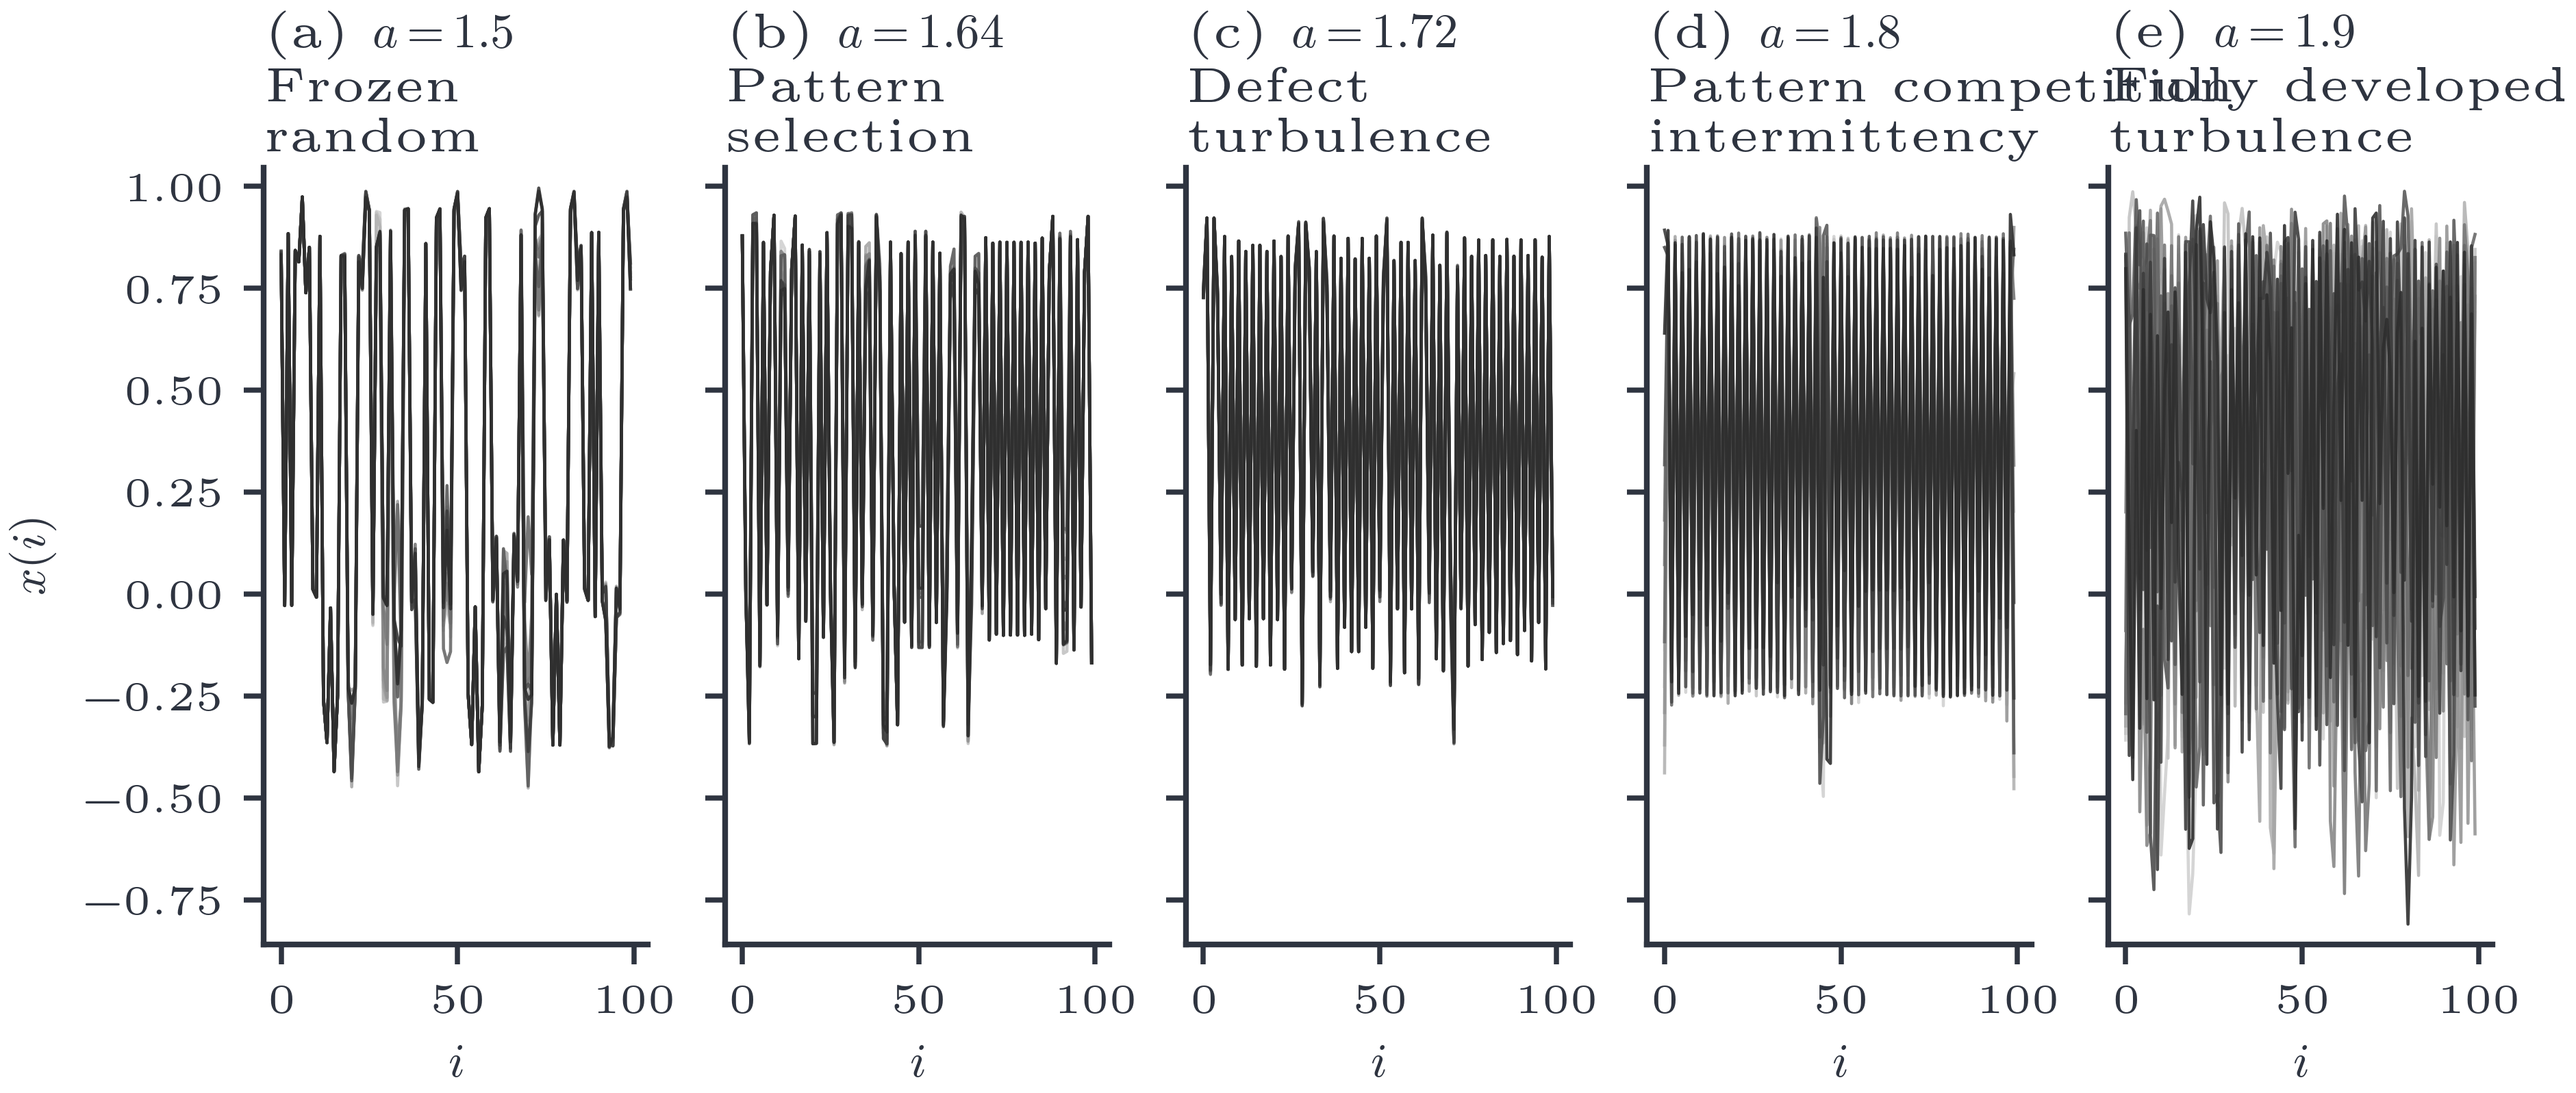
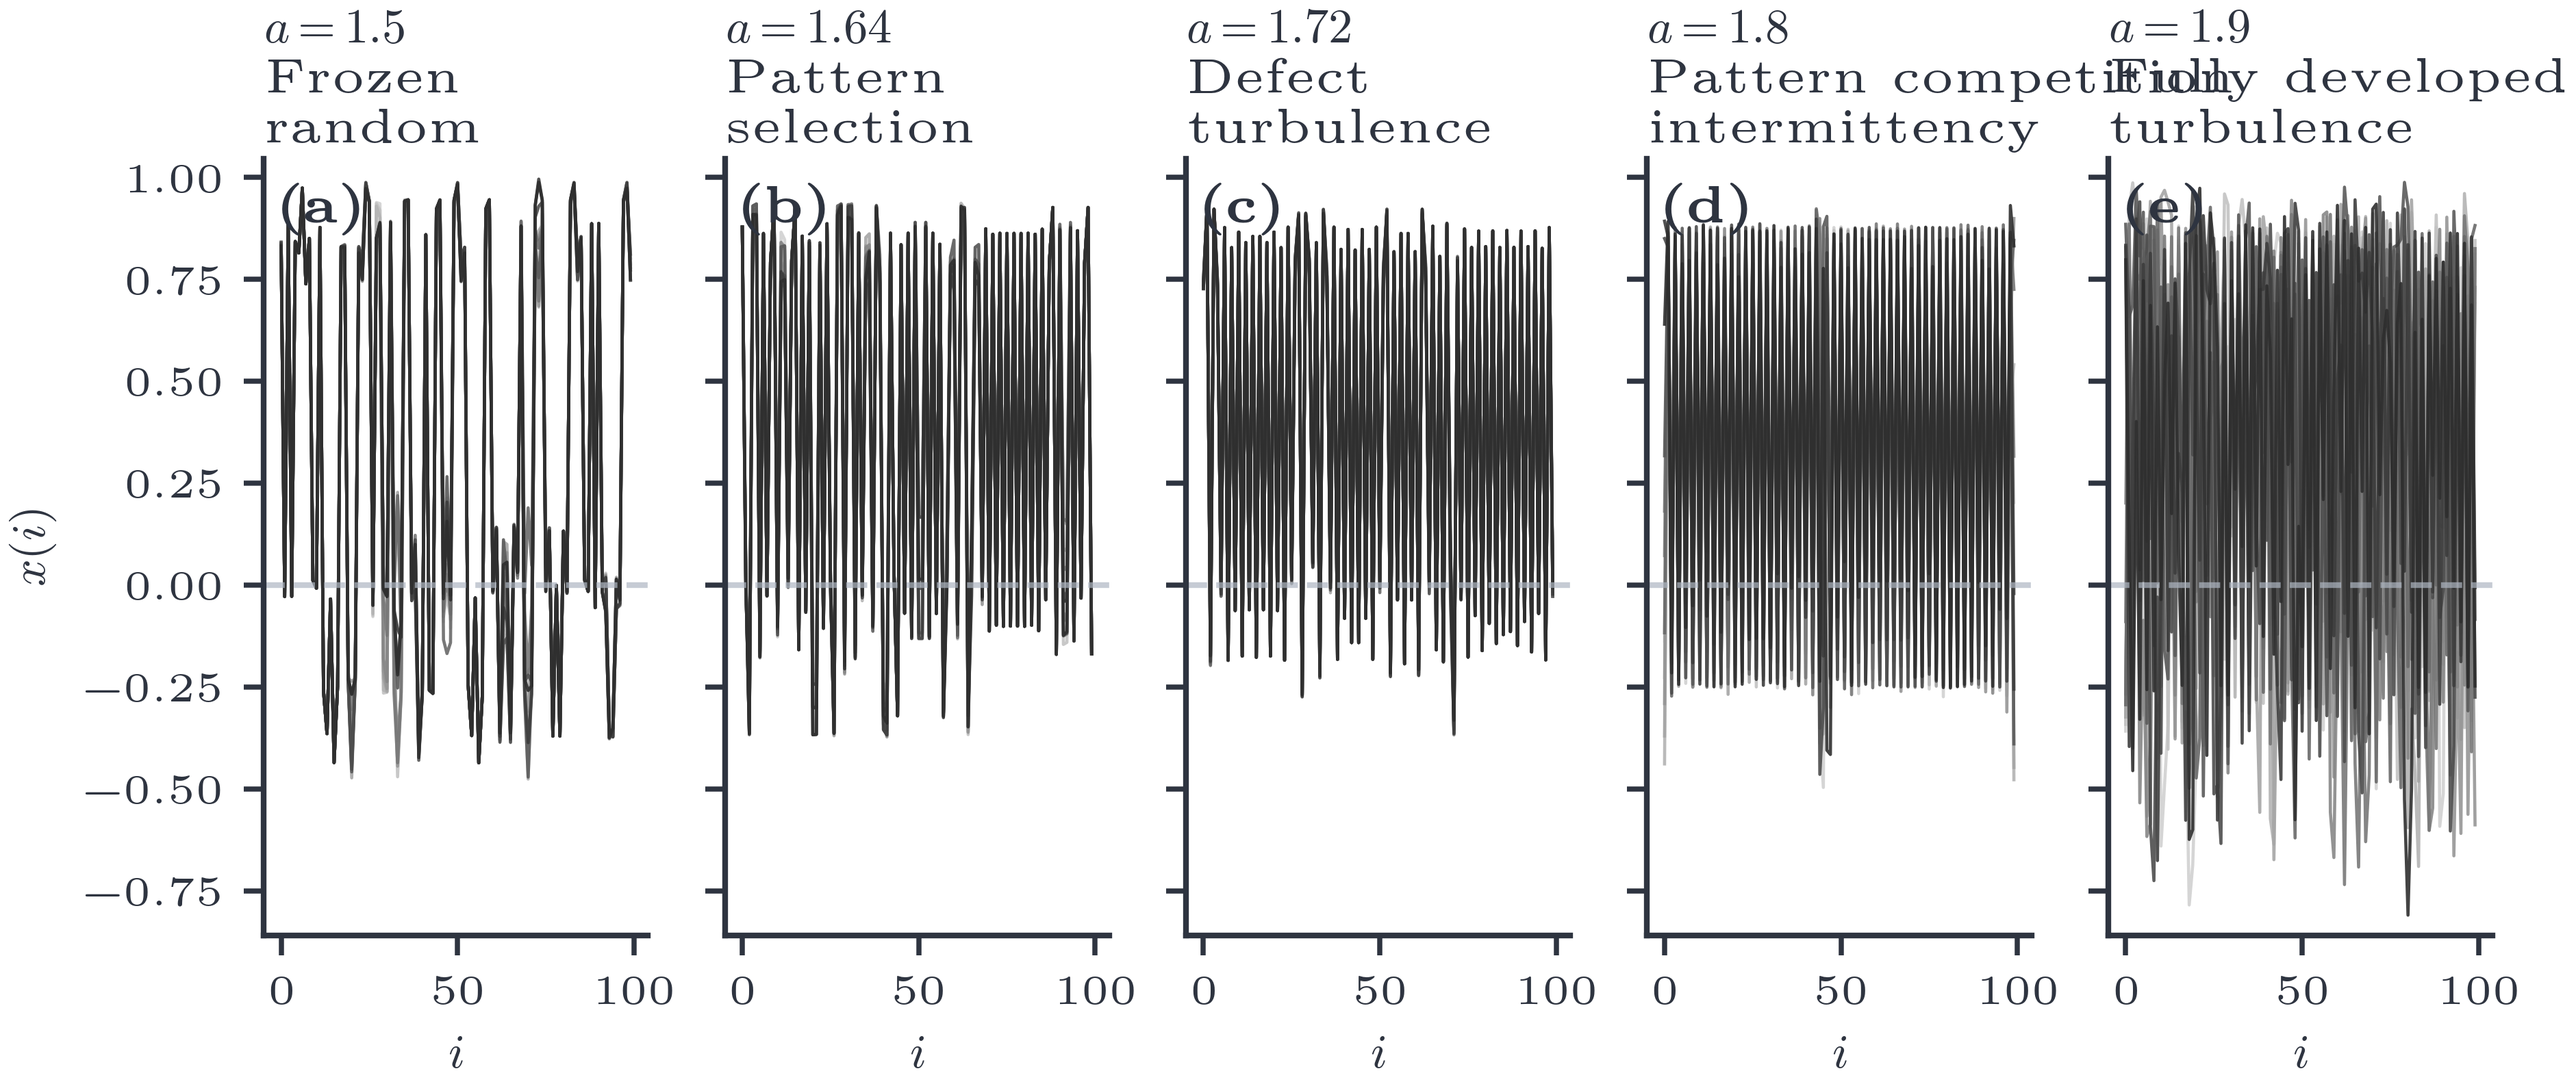
style(sec09): apply figure grammar — colorbar, panel labels, grey guides
pattern_dynamics.py: phase_diagram gets labelled field colorbar + legible
on-field case markers + grey slice line; space_amplitude gets (a)-(e) panel
labels + grey zero guides. Presentation only; npz unchanged.

diff --git a/src/dynachaos/cml/pattern_dynamics.py b/src/dynachaos/cml/pattern_dynamics.py
@@ -158,8 +158,11 @@ def plot_phase_diagram(data):
     from dynachaos.utils.style import (
         CMAP_SEQUENTIAL,
         COLORS,
+        add_field_colorbar,
+        annotate_on_field,
         apply_axes_polish,
         figure_spec,
+        reference_line,
         setup,
     )
 
@@ -175,14 +178,12 @@ def plot_phase_diagram(data):
     ax.set_xlabel(r"Nonlinearity $a$")
     ax.set_ylabel(r"Coupling $\varepsilon$")
     ax.set_title("Spatial activity map", loc="left")
-    cb = fig.colorbar(im, ax=ax, pad=0.02)
-    cb.set_label(r"$\langle |x_i - x_{i-1}| \rangle$")
-    cb.ax.tick_params(labelsize=spec.tick_size)
+    add_field_colorbar(fig, im, ax, label=r"$\langle |x_i - x_{i-1}| \rangle$")
     ax.set_xlim(float(a.min()), float(a.max()))
     apply_axes_polish(ax, kind="double", title_loc="left", grid=False)
 
     eps_slice = 0.10
-    ax.axhline(eps_slice, color=COLORS["offwhite"], lw=0.8, ls="--", alpha=0.9)
+    reference_line(ax, eps_slice, axis="y")
     for a_case, eps_case, _label, tag in SPACE_CASES:
         ax.scatter(
             [a_case],
@@ -193,12 +194,13 @@ def plot_phase_diagram(data):
             linewidths=0.6,
             zorder=3,
         )
-        ax.text(
+        annotate_on_field(
+            ax,
             a_case + 0.008,
             eps_case + 0.008,
             f"({tag})",
-            fontsize=spec.legend_size - 0.4,
-            color=COLORS["offwhite"],
+            ha="left",
+            va="bottom",
         )
 
     fig.savefig(PHASE_PNG, dpi=600, bbox_inches="tight")
@@ -210,7 +212,13 @@ def plot_space_amplitude(data):
     """Plot space-amplitude snapshots."""
     import matplotlib.pyplot as plt
 
-    from dynachaos.utils.style import apply_axes_polish, figure_spec, setup
+    from dynachaos.utils.style import (
+        apply_axes_polish,
+        figure_spec,
+        panel_label,
+        reference_line,
+        setup,
+    )
 
     setup()
 
@@ -246,12 +254,14 @@ def plot_space_amplitude(data):
             ax.plot(sites, snap, color=(shade, shade, shade), lw=0.55, alpha=0.9)
         label = str(data[label_key][0]) if label_key in data else ""
         tag = str(data[tag_key][0]) if tag_key in data else "?"
-        ax.set_title(f"({tag}) $a={a}$\n{label}", loc="left")
+        ax.set_title(f"$a={a}$\n{label}", loc="left")
+        panel_label(ax, f"({tag})")
         ax.set_xlabel("$i$")
         if idx == 0:
             ax.set_ylabel("$x(i)$")
         ax.set_ylim(y_min - 0.05, y_max + 0.05)
         apply_axes_polish(ax, kind="grid", title_loc="left", grid=False)
+        reference_line(ax, 0.0, axis="y")
 
     fig.savefig(SPACE_PNG, dpi=600, bbox_inches="tight")
     plt.close(fig)
